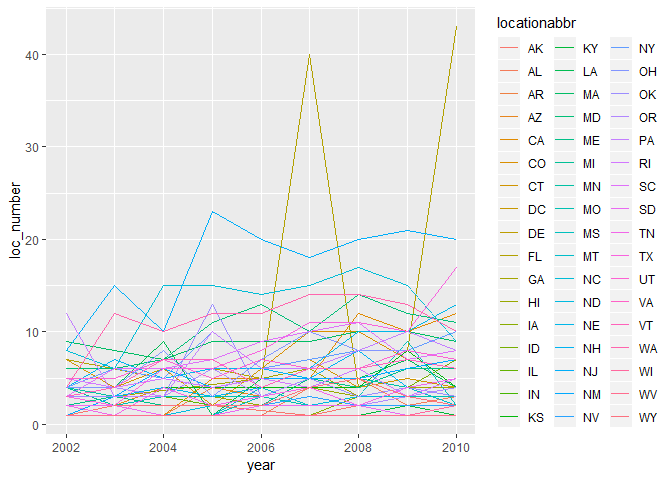
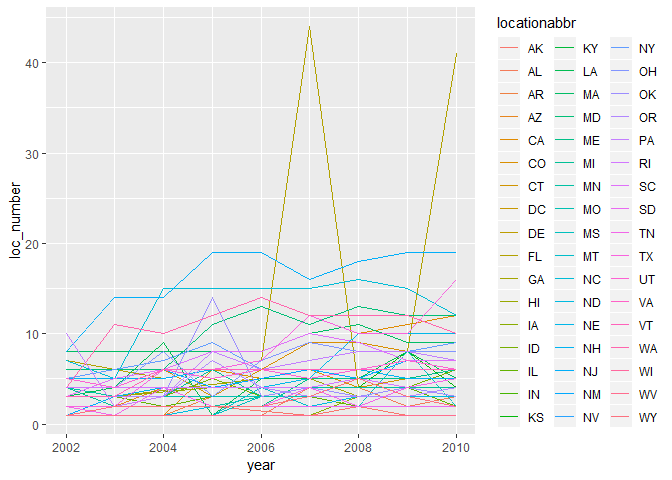
Use data_value instead of manual calculated prop in table and plot

diff --git a/p8105_hw3_yl3181.md b/p8105_hw3_yl3181.md
@@ -26,20 +26,16 @@ library(p8105.datasets)
 
 #Import and organize dataset including cleaning names, filter certain obs and change variable type
 brfss = janitor::clean_names(brfss_smart2010) %>% 
-        filter(topic == "Overall Health" & response == c("Excellent", "Poor")) %>% 
-        mutate(response = factor(response, levels = c("Excellent","Poor")))
-```
+        filter(topic == "Overall Health") %>% 
+        mutate(response = factor(response, levels = c("Excellent","Very good","Good","Fair","Poor")))
 
-    ## Warning in response == c("Excellent", "Poor"): longer object length is not
-    ## a multiple of shorter object length
-
-``` r
 #Group datasets by years and locations for following analyses 
 loc_count = group_by(brfss,year,locationabbr) %>% 
+            distinct(year, locationabbr,locationdesc) %>% 
             summarise(loc_number = n())
 ```
 
--   In 2002, states observed at 7 locations is CT, FL; (Comment: This means that the response rate for overall health topics are relatively high in these two states in 2002.)
+-   In 2002, states observed at 7 locations is CT, FL, NC; (Comment: This means that the response rate for overall health topics are relatively high in these two states in 2002.)
 
 -   A "spaghetti plot" that shows the number of locations in each state from 2002 to 2010:
 
@@ -66,9 +62,9 @@ brfss %>%
     ## # A tibble: 3 x 3
     ##    year mean_prop_resp sd_prop_resp
     ##   <int>          <dbl>        <dbl>
-    ## 1  2002          0.326       0.0894
-    ## 2  2006          0.338       0.0121
-    ## 3  2010          0.300       0.182
+    ## 1  2002         0.0493      0.0106 
+    ## 2  2006         0.0358      0.00814
+    ## 3  2010         0.0229      0.0115
 
 Comment: From the table, we can see that the proportion of excellent response for overall health topics are consistent with all these years (around 0.32), but the variance of the response increases at 2010.
 
@@ -182,16 +178,18 @@ Comment: For baking ingredients, Light Brown Sugar is trending; For dog food car
 # Note: product such as "Bag Pink Lady Apples" or "Large Pink Lady Apples" are not included because they might refer to different products instead of "Pink Lady Apples".
 instacart %>% 
   filter(product_name %in% c("Pink Lady Apples", "Coffee Ice Cream")) %>% 
-  group_by(order_dow) %>% 
+  group_by(product_name,order_dow) %>% 
   summarise(mean_hour = mean(order_hour_of_day)) %>% 
   mutate(order_dow = factor(order_dow, levels = rep(0:6)), order_dow = recode(order_dow, "0" = "Sunday", "1" = "Monday", "2" = "Tuesday", "3" = "Wednesday", "4" = "Thursday", "5" = "Friday", "6" = "Saturday")) %>% 
   spread(key = order_dow, value = mean_hour)
 ```
 
-    ## # A tibble: 1 x 7
-    ##   Sunday Monday Tuesday Wednesday Thursday Friday Saturday
-    ##    <dbl>  <dbl>   <dbl>     <dbl>    <dbl>  <dbl>    <dbl>
-    ## 1   13.6   12.2    12.8      14.7     13.2   12.6     13.2
+    ## # A tibble: 2 x 8
+    ## # Groups:   product_name [2]
+    ##   product_name     Sunday Monday Tuesday Wednesday Thursday Friday Saturday
+    ##   <chr>             <dbl>  <dbl>   <dbl>     <dbl>    <dbl>  <dbl>    <dbl>
+    ## 1 Coffee Ice Cream   13.8   14.3    15.4      15.3     15.2   12.3     13.8
+    ## 2 Pink Lady Apples   13.4   11.4    11.7      14.2     11.6   12.8     11.9
 
 Comment: In general, people tends to place order around noon. On Wednesday, people tends to place order at 2PM.
 
